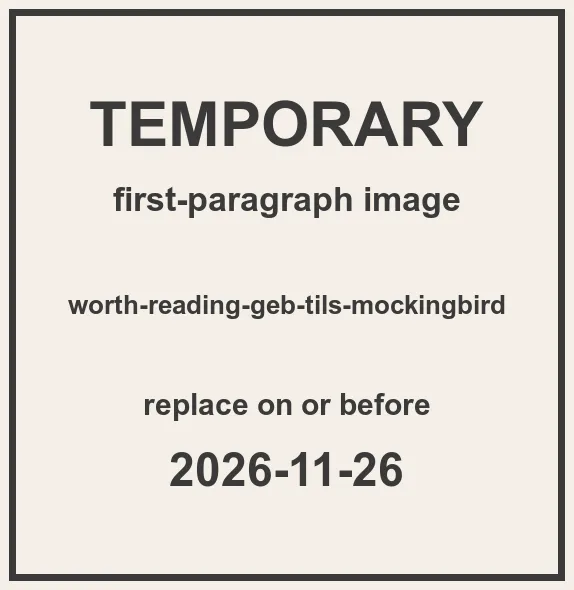
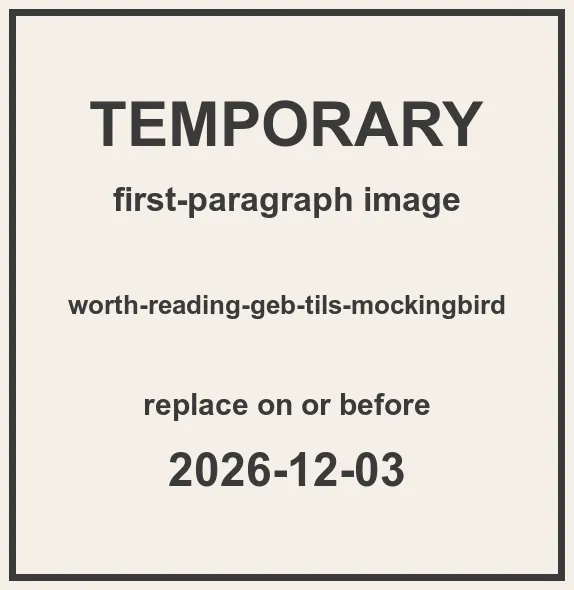
Draft Worth Reading: add Pree's Design Patterns for Object-Oriented Software Development; split #3 into the pattern books (#3) and Kaye and Tornhill (#4); #5-#7 shift a week (to 12/17)

Changed region(s): [[0.5035, 0.7627, 0.7108, 0.8237], [0.2962, 0.7627, 0.4739, 0.8237]]

diff --git a/_drafts/worth-reading-loosely-coupled-crime-scene.md b/_drafts/worth-reading-loosely-coupled-crime-scene.md
@@ -1,0 +1,51 @@
+---
+layout: post
+title: "Worth Reading #4: Coupling and Code Forensics --- Kaye and Tornhill"
+categories: [books, programming-history]
+tags: [worth-reading, books, loose-coupling, web-services, doug-kaye, adam-tornhill, your-code-as-a-crime-scene, code-forensics, hotspots, temporal-coupling]
+keywords: "books worth reading, Loosely Coupled, Doug Kaye, The Missing Pieces of Web Services, loose coupling, Your Code as a Crime Scene, Adam Tornhill, code forensics, hotspots, temporal coupling, version control history"
+abstract: "Fourth in the series on books worth reading: two on how software fits together, and how to see where it does not. Doug Kaye's Loosely Coupled (2003), on what web services need to work together across companies, and Adam Tornhill's Your Code as a Crime Scene (2015), which reads a code base's version-control history for hotspots and hidden coupling."
+series: "Worth Reading"
+series_part: 4
+date: 2026-11-26 00:15:00 -0800
+---
+
+<!-- DRAFT (2026-11-02), Mike: "start a new blog post for thursday 11/5, influential books", then "maybe a new series, worth reading".
+     Split into posts of 2 to 4 books, about 3 on average, one a week; more books coming (Mike, 2026-11-02). Added the same day at
+     Mike's request: Loosely Coupled (Doug Kaye, RDS Press, 2003), The Timeless Way of Building (Alexander, 1979), Gödel, Escher, Bach
+     (Hofstadter, 1979); Your Code as a Crime Scene (Tornhill, 2015, added to #3 on 2026-11-03); Design Patterns for Object-Oriented Software Development (Pree, 1995, added 2026-11-03, when #3 split into the pattern books and the coupling books); Alexander's two books split from Design Patterns and Loosely Coupled. Within each post the books are in order
+     of first publication until Mike reorders them by when he read them. What each book taught him is Mike: TODO; do not add reasons
+     he has not given. Links point only to published posts that already cite the book or its subject. Lead image: placeholder-worth-reading-loosely-coupled-crime-scene.webp -->
+
+<img src="{{ '/assets/images/posts/placeholder-worth-reading-loosely-coupled-crime-scene.webp' | relative_url }}" class="post-marker no-invert" alt="" style="width: 205px;">
+
+The [prior post](/2026/11/19/worth-reading-design-patterns-pree/) in this series was about design patterns in software. Mike: TODO, an intro in your words for these books.
+
+<!--more-->
+
+<div class="resource-box" markdown="1">
+
+| Book | Author(s), year |
+|----------|------|
+| **Loosely Coupled** | Doug Kaye, 2003 |
+| **Your Code as a Crime Scene** | Adam Tornhill, 2015 |
+| **The series** | [Worth Reading: every post](/series/#worth-reading) |
+| **Comments** | [Discord](https://discord.com/invite/Ctzk5uHggZ) |
+
+</div>
+
+## Loosely Coupled
+
+Doug Kaye, *Loosely Coupled: The Missing Pieces of Web Services* (RDS Press, 2003). The hard parts of web services: security, reliable messaging, and long-lived, asynchronous transactions between systems that should know as little about each other as they can. Coupling is one of the things [sw-checklist](/2026/04/27/sw-checklist-ratchet-ai-coding-agents/) measures.
+
+Mike: TODO, what it taught you.
+
+## Your Code as a Crime Scene
+
+Adam Tornhill, *Your Code as a Crime Scene: Use Forensic Techniques to Arrest Defects, Bottlenecks, and Bad Design in Your Programs* (Pragmatic Bookshelf, 2015). Forensic psychology applied to a code base's version-control history: hotspots, the few files where most of the work and most of the defects land, and temporal coupling, files that change together although nothing in the code says they depend on each other.
+
+Mike: TODO, what it taught you.
+
+## Closing
+
+Mike: TODO, a closing in your words: what these books have in common, or where they disagree.

diff --git a/_drafts/worth-reading-design-patterns-pree.md b/_drafts/worth-reading-design-patterns-pree.md
@@ -1,0 +1,51 @@
+---
+layout: post
+title: "Worth Reading #3: Design Patterns --- the Gang of Four and Pree"
+categories: [books, programming-history]
+tags: [worth-reading, books, design-patterns, gang-of-four, object-oriented, wolfgang-pree, metapatterns, frameworks]
+keywords: "books worth reading, Design Patterns, Gang of Four, Gamma Helm Johnson Vlissides, object-oriented design, Design Patterns for Object-Oriented Software Development, Wolfgang Pree, metapatterns, hot spots, application frameworks, ET++"
+abstract: "Third in the series on books worth reading: Alexander's idea, carried into software. The Gang of Four's Design Patterns (1994), patterns inside one program, and Wolfgang Pree's Design Patterns for Object-Oriented Software Development (1995), metapatterns and the hot spots where a framework is meant to vary."
+series: "Worth Reading"
+series_part: 3
+date: 2026-11-19 00:15:00 -0800
+---
+
+<!-- DRAFT (2026-11-02), Mike: "start a new blog post for thursday 11/5, influential books", then "maybe a new series, worth reading".
+     Split into posts of 2 to 4 books, about 3 on average, one a week; more books coming (Mike, 2026-11-02). Added the same day at
+     Mike's request: Loosely Coupled (Doug Kaye, RDS Press, 2003), The Timeless Way of Building (Alexander, 1979), Gödel, Escher, Bach
+     (Hofstadter, 1979); Your Code as a Crime Scene (Tornhill, 2015, added to #3 on 2026-11-03); Design Patterns for Object-Oriented Software Development (Pree, 1995, added 2026-11-03, when #3 split into the pattern books and the coupling books); Alexander's two books split from Design Patterns and Loosely Coupled. Within each post the books are in order
+     of first publication until Mike reorders them by when he read them. What each book taught him is Mike: TODO; do not add reasons
+     he has not given. Links point only to published posts that already cite the book or its subject. Lead image: placeholder-worth-reading-design-patterns-pree.webp -->
+
+<img src="{{ '/assets/images/posts/placeholder-worth-reading-design-patterns-pree.webp' | relative_url }}" class="post-marker no-invert" alt="" style="width: 205px;">
+
+The [prior post](/2026/11/12/worth-reading-alexander-pattern-language-timeless-way/) in this series was about Christopher Alexander's patterns for buildings. Mike: TODO, an intro in your words for these books.
+
+<!--more-->
+
+<div class="resource-box" markdown="1">
+
+| Book | Author(s), year |
+|----------|------|
+| **Design Patterns** | Gamma, Helm, Johnson, Vlissides, 1994 |
+| **Design Patterns for Object-Oriented Software Development** | Wolfgang Pree, 1995 |
+| **The series** | [Worth Reading: every post](/series/#worth-reading) |
+| **Comments** | [Discord](https://discord.com/invite/Ctzk5uHggZ) |
+
+</div>
+
+## Design Patterns
+
+Erich Gamma, Richard Helm, Ralph Johnson and John Vlissides, the Gang of Four, *Design Patterns: Elements of Reusable Object-Oriented Software* (1994). Twenty-three object-oriented patterns, named and catalogued after Alexander's example.
+
+Mike: TODO, what it taught you.
+
+## Design Patterns for Object-Oriented Software Development
+
+Wolfgang Pree, *Design Patterns for Object-Oriented Software Development* (Addison-Wesley and ACM Press, 1995). Patterns one level up: metapatterns, a small set that describes the patterns of application frameworks, and hot spots, the places where a framework is meant to vary and be extended, worked through on the C++ GUI framework ET++.
+
+Mike: TODO, what it taught you.
+
+## Closing
+
+Mike: TODO, a closing in your words: what these books have in common, or where they disagree.

diff --git a/_drafts/worth-reading-geb-tils-mockingbird.md b/_drafts/worth-reading-geb-tils-mockingbird.md
@@ -1,25 +1,25 @@
 ---
 layout: post
-title: "Worth Reading #4: Languages From the Inside --- Hofstadter, Loeliger and Smullyan"
+title: "Worth Reading #5: Languages From the Inside --- Hofstadter, Loeliger and Smullyan"
 categories: [books, programming-history]
 tags: [worth-reading, books, hofstadter, godel-escher-bach, strange-loops, self-reference, forth, threaded-interpretive-languages, loeliger, smullyan, to-mock-a-mockingbird, combinators]
 keywords: "books worth reading, Gödel, Escher, Bach, Douglas Hofstadter, strange loops, self-reference, Threaded Interpretive Languages, R. G. Loeliger, Forth, inner interpreter, To Mock a Mockingbird, Raymond Smullyan, combinators, combinatory logic"
-abstract: "Fourth in the series on books worth reading: three on formal systems and the languages built from them. Douglas Hofstadter's Gödel, Escher, Bach (1979), R. G. Loeliger's Threaded Interpretive Languages (1981), on building a Forth-like language from the inner interpreter up, and Raymond Smullyan's To Mock a Mockingbird (1985), combinatory logic as puzzles about birds."
+abstract: "Fifth in the series on books worth reading: three on formal systems and the languages built from them. Douglas Hofstadter's Gödel, Escher, Bach (1979), R. G. Loeliger's Threaded Interpretive Languages (1981), on building a Forth-like language from the inner interpreter up, and Raymond Smullyan's To Mock a Mockingbird (1985), combinatory logic as puzzles about birds."
 series: "Worth Reading"
-series_part: 4
-date: 2026-11-26 00:15:00 -0800
+series_part: 5
+date: 2026-12-03 00:15:00 -0800
 ---
 
 <!-- DRAFT (2026-11-02), Mike: "start a new blog post for thursday 11/5, influential books", then "maybe a new series, worth reading".
      Split into posts of 2 to 4 books, about 3 on average, one a week; more books coming (Mike, 2026-11-02). Added the same day at
      Mike's request: Loosely Coupled (Doug Kaye, RDS Press, 2003), The Timeless Way of Building (Alexander, 1979), Gödel, Escher, Bach
-     (Hofstadter, 1979); Alexander's two books split from Design Patterns and Loosely Coupled. Within each post the books are in order
+     (Hofstadter, 1979); Your Code as a Crime Scene (Tornhill, 2015) and Design Patterns for Object-Oriented Software Development (Pree, 1995), both 2026-11-03, when #3 split into the pattern books and the coupling books; Alexander's two books split from Design Patterns and Loosely Coupled. Within each post the books are in order
      of first publication until Mike reorders them by when he read them. What each book taught him is Mike: TODO; do not add reasons
      he has not given. Links point only to published posts that already cite the book or its subject. Lead image: placeholder-worth-reading-geb-tils-mockingbird.webp -->
 
 <img src="{{ '/assets/images/posts/placeholder-worth-reading-geb-tils-mockingbird.webp' | relative_url }}" class="post-marker no-invert" alt="" style="width: 205px;">
 
-The [prior post](/2026/11/19/worth-reading-design-patterns-loosely-coupled/) in this series was about patterns in software and coupling between systems. Mike: TODO, an intro in your words for these books.
+The [prior post](/2026/11/26/worth-reading-loosely-coupled-crime-scene/) in this series was about coupling and code forensics. Mike: TODO, an intro in your words for these books.
 
 <!--more-->
 

diff --git a/_drafts/worth-reading-7-habits-gtd.md b/_drafts/worth-reading-7-habits-gtd.md
@@ -1,25 +1,25 @@
 ---
 layout: post
-title: "Worth Reading #5: Principles and a System --- Covey and Allen"
+title: "Worth Reading #6: Principles and a System --- Covey and Allen"
 categories: [books, programming-history]
 tags: [worth-reading, books, covey, seven-habits, sharpen-the-saw, getting-things-done, david-allen, productivity]
 keywords: "books worth reading, The 7 Habits of Highly Effective People, Stephen Covey, sharpen the saw, Getting Things Done, GTD, David Allen, productivity"
-abstract: "Fifth in the series on books worth reading, and the first two that are not about computing. Stephen Covey's The 7 Habits of Highly Effective People (1989), whose seventh habit named my Sunday series, and David Allen's Getting Things Done (2001), a system for every open commitment."
+abstract: "Sixth in the series on books worth reading, and the first two that are not about computing. Stephen Covey's The 7 Habits of Highly Effective People (1989), whose seventh habit named my Sunday series, and David Allen's Getting Things Done (2001), a system for every open commitment."
 series: "Worth Reading"
-series_part: 5
-date: 2026-12-03 00:15:00 -0800
+series_part: 6
+date: 2026-12-10 00:15:00 -0800
 ---
 
 <!-- DRAFT (2026-11-02), Mike: "start a new blog post for thursday 11/5, influential books", then "maybe a new series, worth reading".
      Split into posts of 2 to 4 books, about 3 on average, one a week; more books coming (Mike, 2026-11-02). Added the same day at
      Mike's request: Loosely Coupled (Doug Kaye, RDS Press, 2003), The Timeless Way of Building (Alexander, 1979), Gödel, Escher, Bach
-     (Hofstadter, 1979); Alexander's two books split from Design Patterns and Loosely Coupled. Within each post the books are in order
+     (Hofstadter, 1979); Your Code as a Crime Scene (Tornhill, 2015) and Design Patterns for Object-Oriented Software Development (Pree, 1995), both 2026-11-03, when #3 split into the pattern books and the coupling books; Alexander's two books split from Design Patterns and Loosely Coupled. Within each post the books are in order
      of first publication until Mike reorders them by when he read them. What each book taught him is Mike: TODO; do not add reasons
      he has not given. Links point only to published posts that already cite the book or its subject. Lead image: placeholder-worth-reading-7-habits-gtd.webp -->
 
 <img src="{{ '/assets/images/posts/placeholder-worth-reading-7-habits-gtd.webp' | relative_url }}" class="post-marker no-invert" alt="" style="width: 205px;">
 
-The [prior post](/2026/11/26/worth-reading-geb-tils-mockingbird/) in this series was about formal systems and the languages built from them. Mike: TODO, an intro in your words for these books.
+The [prior post](/2026/12/03/worth-reading-geb-tils-mockingbird/) in this series was about formal systems and the languages built from them. Mike: TODO, an intro in your words for these books.
 
 <!--more-->
 

diff --git a/_drafts/worth-reading-selling-the-dream-samurai-chess.md b/_drafts/worth-reading-selling-the-dream-samurai-chess.md
@@ -1,25 +1,25 @@
 ---
 layout: post
-title: "Worth Reading #6: Persuasion and Strategy --- Kawasaki, Gelb and Keene"
+title: "Worth Reading #7: Persuasion and Strategy --- Kawasaki, Gelb and Keene"
 categories: [books, programming-history]
 tags: [worth-reading, books, guy-kawasaki, selling-the-dream, evangelism, samurai-chess, chess, strategy]
 keywords: "books worth reading, Selling the Dream, Guy Kawasaki, evangelism, Samurai Chess, Michael Gelb, Raymond Keene, chess, strategic thinking"
-abstract: "Sixth in the series on books worth reading. Guy Kawasaki's Selling the Dream (1991), on evangelism as a way to sell a product or an idea, and Michael Gelb and Raymond Keene's Samurai Chess (1997), martial-arts principles applied to chess and strategic thinking."
+abstract: "Seventh in the series on books worth reading. Guy Kawasaki's Selling the Dream (1991), on evangelism as a way to sell a product or an idea, and Michael Gelb and Raymond Keene's Samurai Chess (1997), martial-arts principles applied to chess and strategic thinking."
 series: "Worth Reading"
-series_part: 6
-date: 2026-12-10 00:15:00 -0800
+series_part: 7
+date: 2026-12-17 00:15:00 -0800
 ---
 
 <!-- DRAFT (2026-11-02), Mike: "start a new blog post for thursday 11/5, influential books", then "maybe a new series, worth reading".
      Split into posts of 2 to 4 books, about 3 on average, one a week; more books coming (Mike, 2026-11-02). Added the same day at
      Mike's request: Loosely Coupled (Doug Kaye, RDS Press, 2003), The Timeless Way of Building (Alexander, 1979), Gödel, Escher, Bach
-     (Hofstadter, 1979); Alexander's two books split from Design Patterns and Loosely Coupled. Within each post the books are in order
+     (Hofstadter, 1979); Your Code as a Crime Scene (Tornhill, 2015) and Design Patterns for Object-Oriented Software Development (Pree, 1995), both 2026-11-03, when #3 split into the pattern books and the coupling books; Alexander's two books split from Design Patterns and Loosely Coupled. Within each post the books are in order
      of first publication until Mike reorders them by when he read them. What each book taught him is Mike: TODO; do not add reasons
      he has not given. Links point only to published posts that already cite the book or its subject. Lead image: placeholder-worth-reading-selling-the-dream-samurai-chess.webp -->
 
 <img src="{{ '/assets/images/posts/placeholder-worth-reading-selling-the-dream-samurai-chess.webp' | relative_url }}" class="post-marker no-invert" alt="" style="width: 205px;">
 
-The [prior post](/2026/12/03/worth-reading-7-habits-gtd/) in this series was about principles and a system for getting things done. Mike: TODO, an intro in your words for these books.
+The [prior post](/2026/12/10/worth-reading-7-habits-gtd/) in this series was about principles and a system for getting things done. Mike: TODO, an intro in your words for these books.
 
 <!--more-->
 

diff --git a/_drafts/worth-reading-alexander-pattern-language-timeless-way.md b/_drafts/worth-reading-alexander-pattern-language-timeless-way.md
@@ -13,7 +13,7 @@ date: 2026-11-12 00:15:00 -0800
 <!-- DRAFT (2026-11-02), Mike: "start a new blog post for thursday 11/5, influential books", then "maybe a new series, worth reading".
      Split into posts of 2 to 4 books, about 3 on average, one a week; more books coming (Mike, 2026-11-02). Added the same day at
      Mike's request: Loosely Coupled (Doug Kaye, RDS Press, 2003), The Timeless Way of Building (Alexander, 1979), Gödel, Escher, Bach
-     (Hofstadter, 1979); Alexander's two books split from Design Patterns and Loosely Coupled. Within each post the books are in order
+     (Hofstadter, 1979); Your Code as a Crime Scene (Tornhill, 2015) and Design Patterns for Object-Oriented Software Development (Pree, 1995), both 2026-11-03, when #3 split into the pattern books and the coupling books; Alexander's two books split from Design Patterns and Loosely Coupled. Within each post the books are in order
      of first publication until Mike reorders them by when he read them. What each book taught him is Mike: TODO; do not add reasons
      he has not given. Links point only to published posts that already cite the book or its subject. Lead image: placeholder-worth-reading-alexander-pattern-language-timeless-way.webp -->
 

diff --git a/_drafts/worth-reading-psychology-mythical-man-month.md b/_drafts/worth-reading-psychology-mythical-man-month.md
@@ -13,7 +13,7 @@ date: 2026-11-05 00:15:00 -0800
 <!-- DRAFT (2026-11-02), Mike: "start a new blog post for thursday 11/5, influential books", then "maybe a new series, worth reading".
      Split into posts of 2 to 4 books, about 3 on average, one a week; more books coming (Mike, 2026-11-02). Added the same day at
      Mike's request: Loosely Coupled (Doug Kaye, RDS Press, 2003), The Timeless Way of Building (Alexander, 1979), Gödel, Escher, Bach
-     (Hofstadter, 1979); Alexander's two books split from Design Patterns and Loosely Coupled. Within each post the books are in order
+     (Hofstadter, 1979); Your Code as a Crime Scene (Tornhill, 2015) and Design Patterns for Object-Oriented Software Development (Pree, 1995), both 2026-11-03, when #3 split into the pattern books and the coupling books; Alexander's two books split from Design Patterns and Loosely Coupled. Within each post the books are in order
      of first publication until Mike reorders them by when he read them. What each book taught him is Mike: TODO; do not add reasons
      he has not given. Links point only to published posts that already cite the book or its subject. Lead image: block-desk-books.webp -->
 
